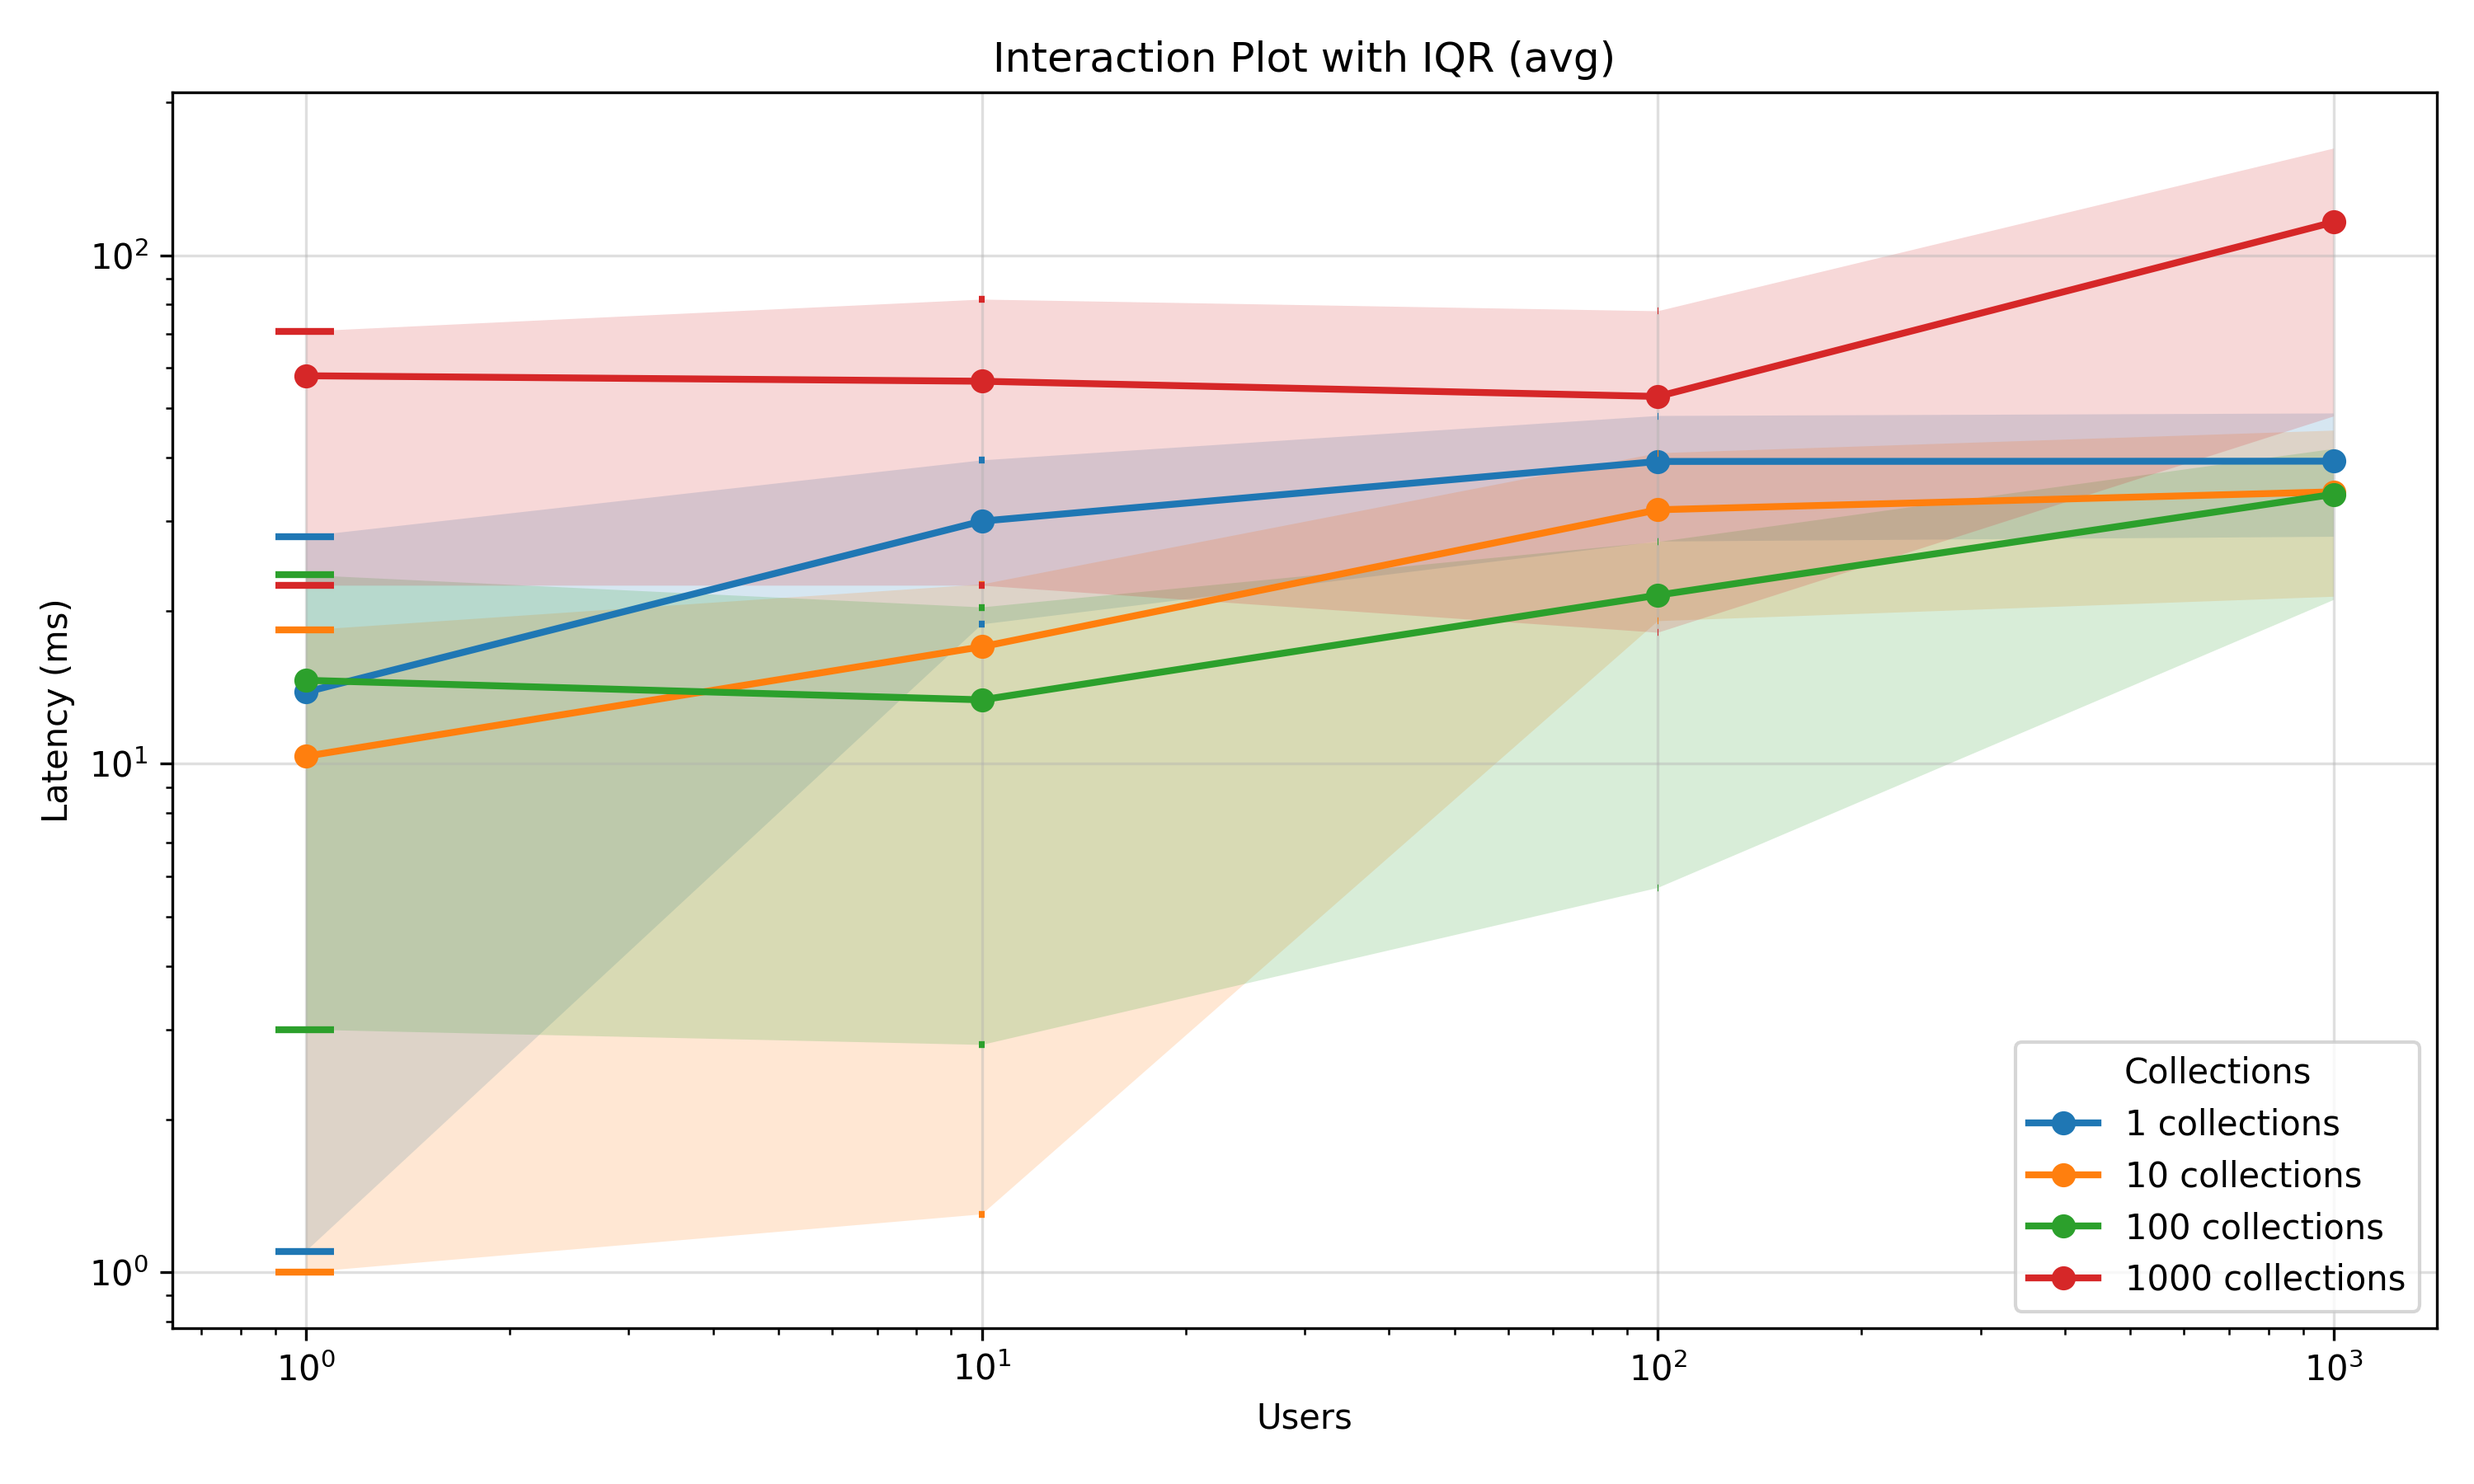
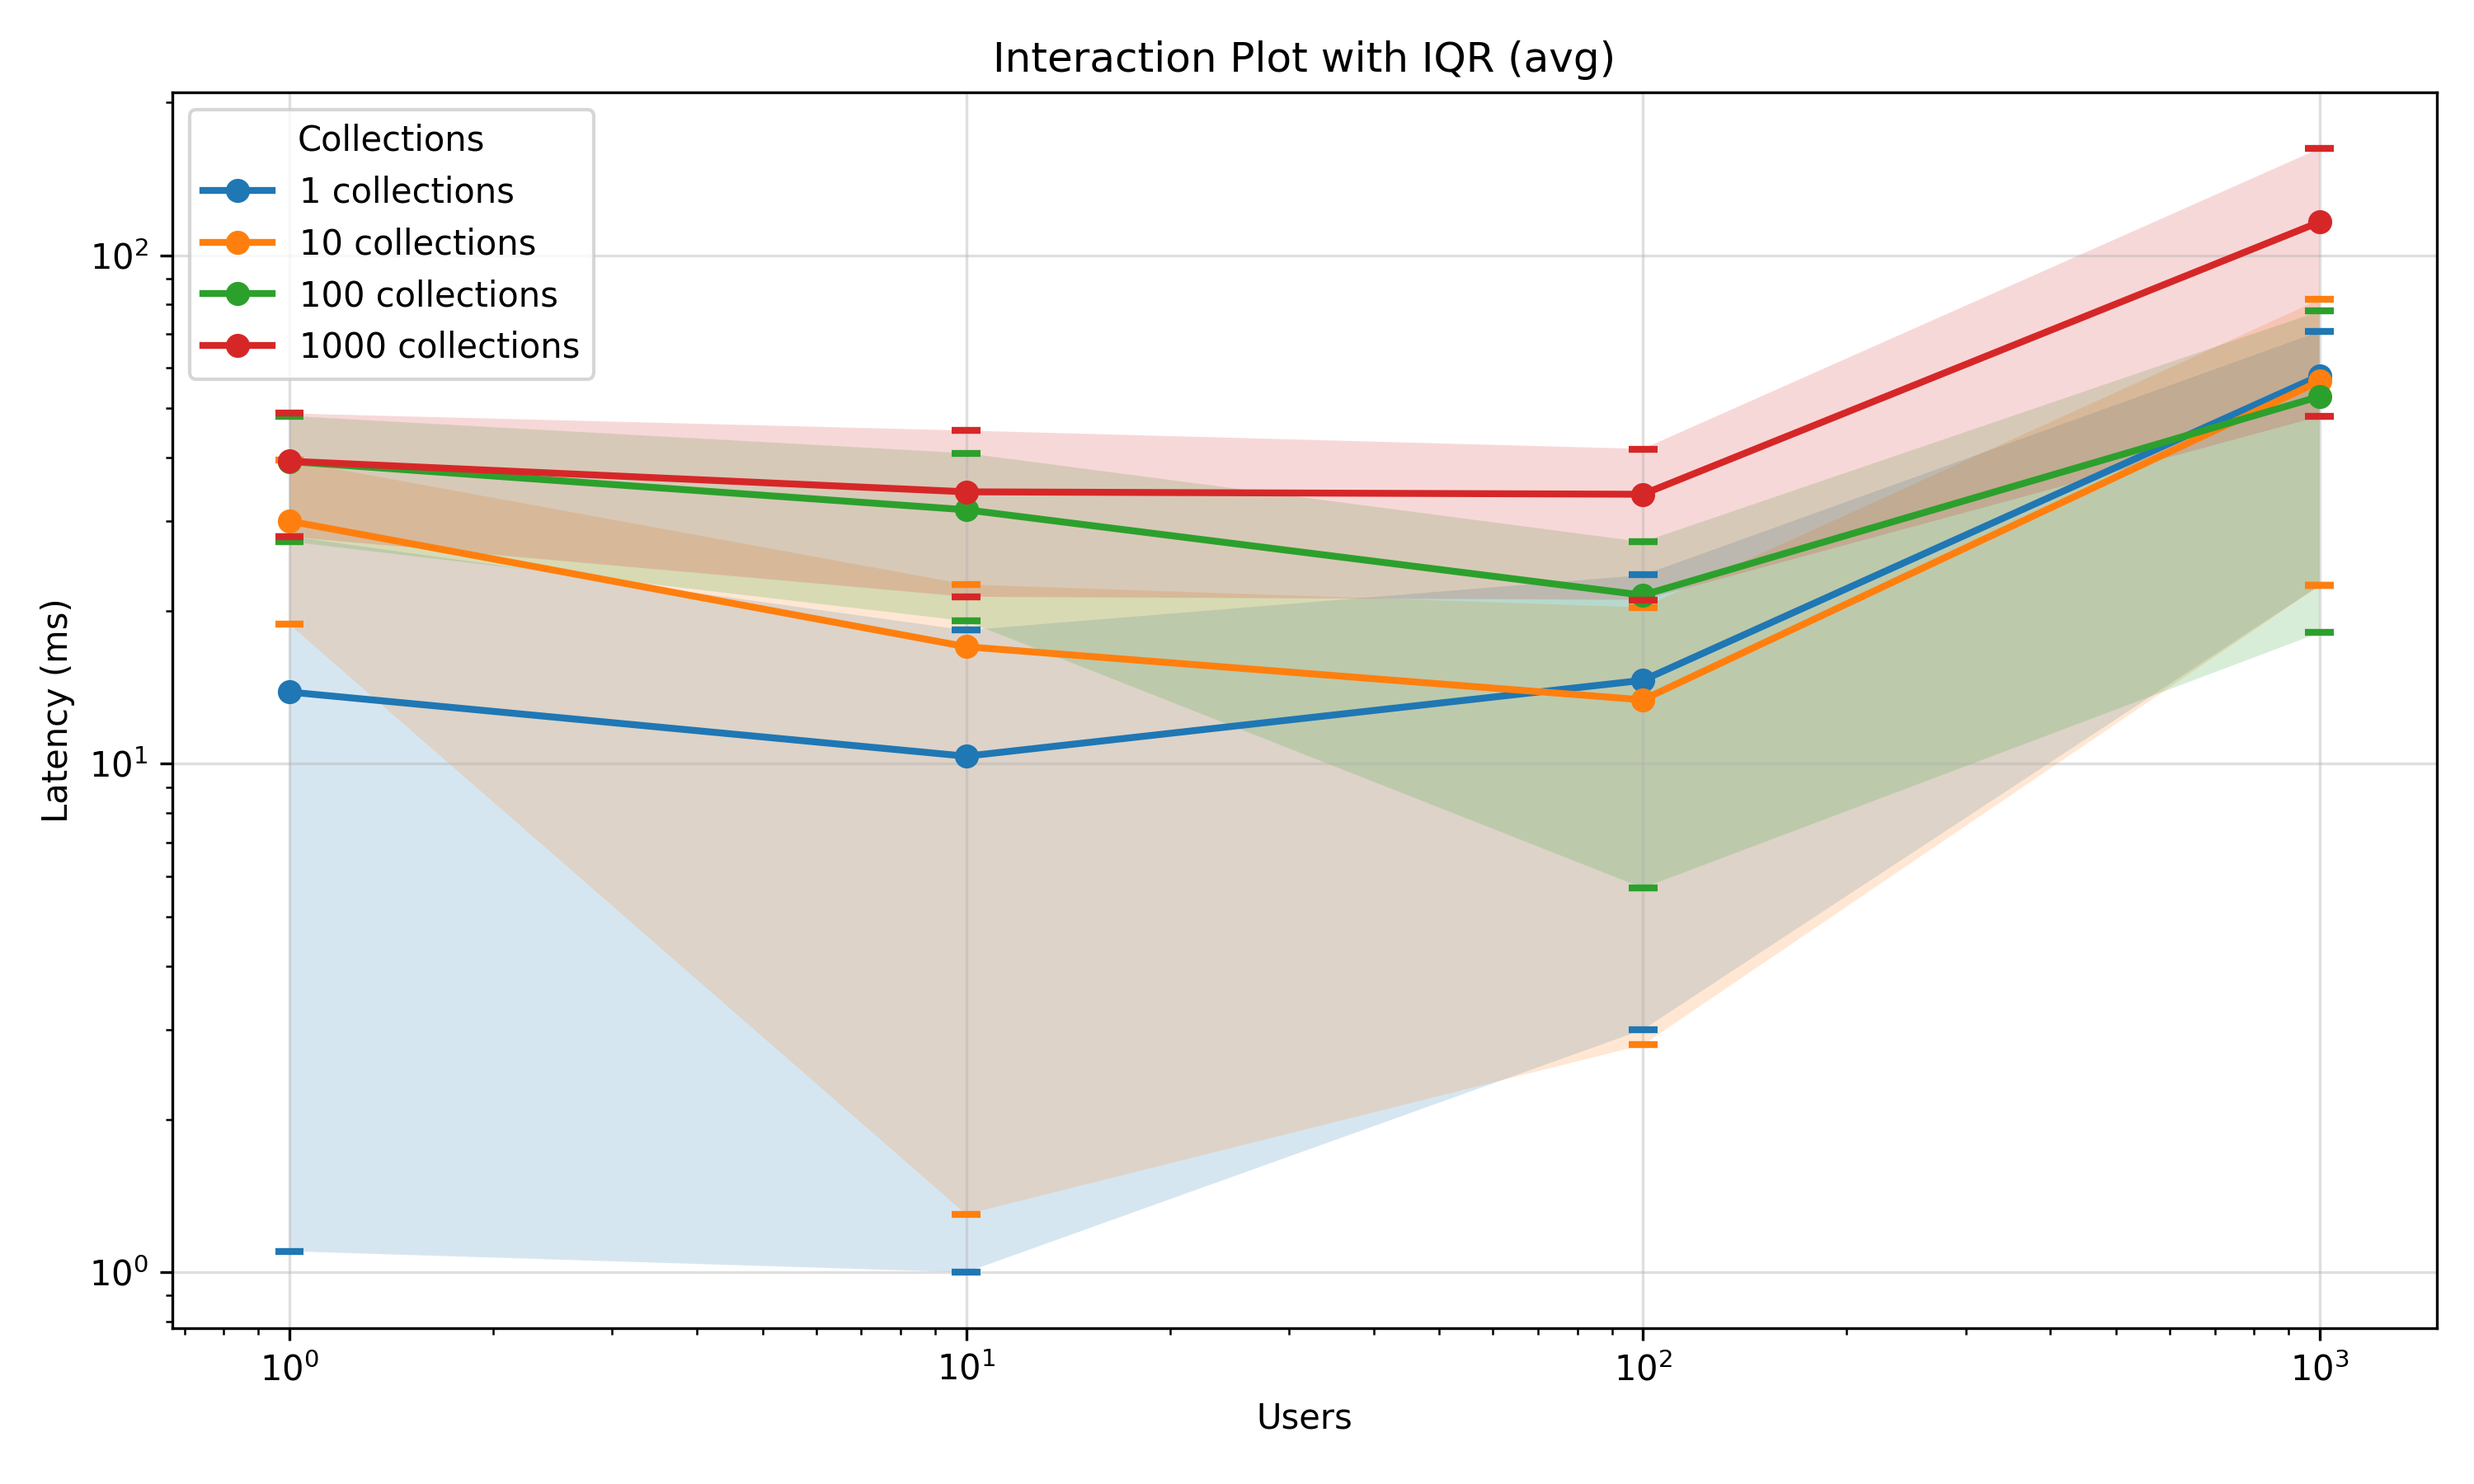
fix micro graph

diff --git a/ermes_benchmark/micro_bench/graph_generator.py b/ermes_benchmark/micro_bench/graph_generator.py
@@ -139,15 +139,16 @@ def print_confidence_intervals(
 def aggregate_experiments(data):
     aggregated = {}
 
-    for users, collections_dict in data.items():
-        aggregated[users] = {}
+    for collections, users_dict in data.items():
+        for users, df in users_dict.items():
+            if users not in aggregated:
+                aggregated[users] = {}
 
-        for collections, df in collections_dict.items():
-            # Calcolo la media su tutte le iterazioni (righe)
-            aggregated_df = df.mean(numeric_only=True).to_frame().T
+            # Calcolo la media su tutte le righe del CSV
+            mean_values = df.mean(numeric_only=True).to_dict()
 
-            # Salvo nel nuovo dizionario
-            aggregated[users][collections] = aggregated_df
+            # Salvo come dizionario semplice (non DataFrame)
+            aggregated[users][collections] = {k: float(v) for k, v in mean_values.items()}
 
     return aggregated
 
@@ -168,9 +169,9 @@ def plot_interaction_with_iqr_avg(aggregated_data, save_path=None):
         for users in users_list:
             if collections in aggregated_data[users]:
                 df = aggregated_data[users][collections]
-                avg_vals.append(float(df["AverageLatency"].iloc[0]))
-                q1_vals.append(float(df["Q1"].iloc[0]))
-                q3_vals.append(float(df["Q3"].iloc[0]))
+                avg_vals.append(float(df["AverageLatency"]))
+                q1_vals.append(float(df["Q1"]))
+                q3_vals.append(float(df["Q3"]))
                 xs.append(users)
 
         if xs:
@@ -183,8 +184,9 @@ def plot_interaction_with_iqr_avg(aggregated_data, save_path=None):
             line, = ax.plot(xs_arr, avg_arr, marker="o", linewidth=2, label=f"{collections} collections")
             color = line.get_color()
             half_width = 0.1
-            ax.hlines(q1_arr, xs_arr - half_width, xs_arr + half_width, linewidth=2, color=color)
-            ax.hlines(q3_arr, xs_arr - half_width, xs_arr + half_width, linewidth=2, color=color)
+            factor = 1.05
+            ax.hlines(q1_arr, xs_arr / factor, xs_arr * factor, linewidth=2, color=color)
+            ax.hlines(q3_arr, xs_arr / factor, xs_arr * factor, linewidth=2, color=color)
 
     ax.set_xlabel("Users")
     ax.set_ylabel("Latency (ms)")
@@ -219,9 +221,9 @@ def plot_interaction_with_iqr_q2(aggregated_data, save_path=None):
         for users in users_list:
             if collections in aggregated_data[users]:
                 df = aggregated_data[users][collections]
-                median_vals.append(float(df["MedianLatency"].iloc[0]))
-                q1_vals.append(float(df["Q1"].iloc[0]))
-                q3_vals.append(float(df["Q3"].iloc[0]))
+                median_vals.append(float(df["MedianLatency"]))
+                q1_vals.append(float(df["Q1"]))
+                q3_vals.append(float(df["Q3"]))
                 xs.append(users)
 
         if xs:
@@ -233,9 +235,9 @@ def plot_interaction_with_iqr_q2(aggregated_data, save_path=None):
             ax.fill_between(xs_arr, q1_arr, q3_arr, alpha=0.18)
             line, = ax.plot(xs_arr, median_arr, marker="o", linewidth=2, label=f"{collections} collections")
             color = line.get_color()
-            half_width = 0.1
-            ax.hlines(q1_arr, xs_arr - half_width, xs_arr + half_width, linewidth=2, color=color)
-            ax.hlines(q3_arr, xs_arr - half_width, xs_arr + half_width, linewidth=2, color=color)
+            factor = 1.05
+            ax.hlines(q1_arr, xs_arr / factor, xs_arr * factor, linewidth=2, color=color)
+            ax.hlines(q3_arr, xs_arr / factor, xs_arr * factor, linewidth=2, color=color)
 
     ax.set_xlabel("Users")
     ax.set_ylabel("Latency (ms)")
@@ -271,7 +273,7 @@ def plot_failed_requests_bar(aggregated_data, save_path=None):
         for users in users_list:
             if collections in aggregated_data[users]:
                 df = aggregated_data[users][collections]
-                failed_vals.append(float(df["FailedRequests"].iloc[0]))
+                failed_vals.append(float(df["FailedRequests"]))
                 xs.append(users)
 
         if xs:
@@ -349,6 +351,9 @@ def main():
     ci_95 = compute_confidence_intervals(data)
     print_confidence_intervals(ci_95)
     aggregated_data = aggregate_experiments(data)
+
+    #from pprint import pprint
+    #pprint(aggregated_data)
 
     plot_interaction_with_iqr_avg(aggregated_data, save_path=output_dir / "latency_avg.png")
     plot_interaction_with_iqr_q2(aggregated_data, save_path=output_dir / "latency_median.png")
